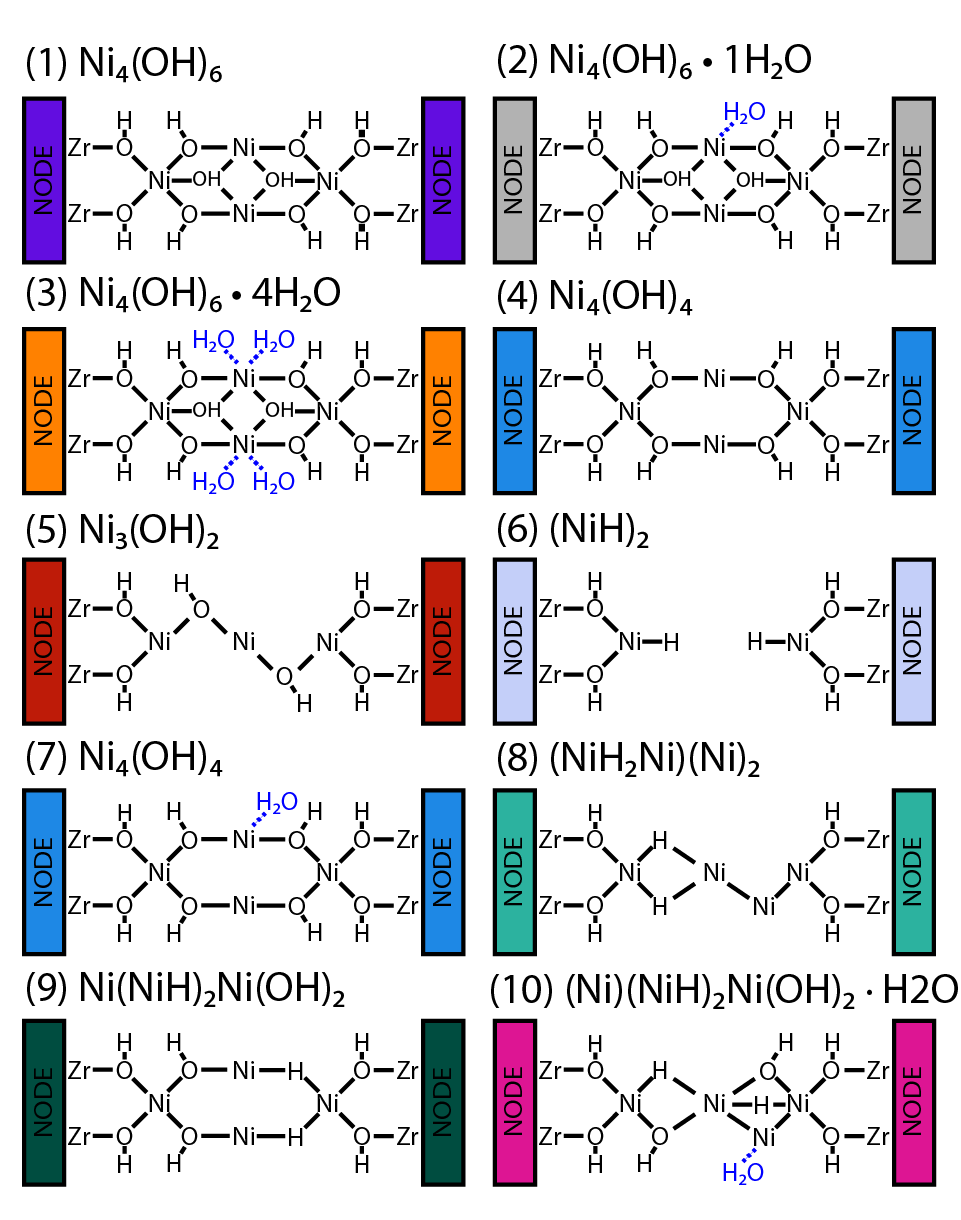
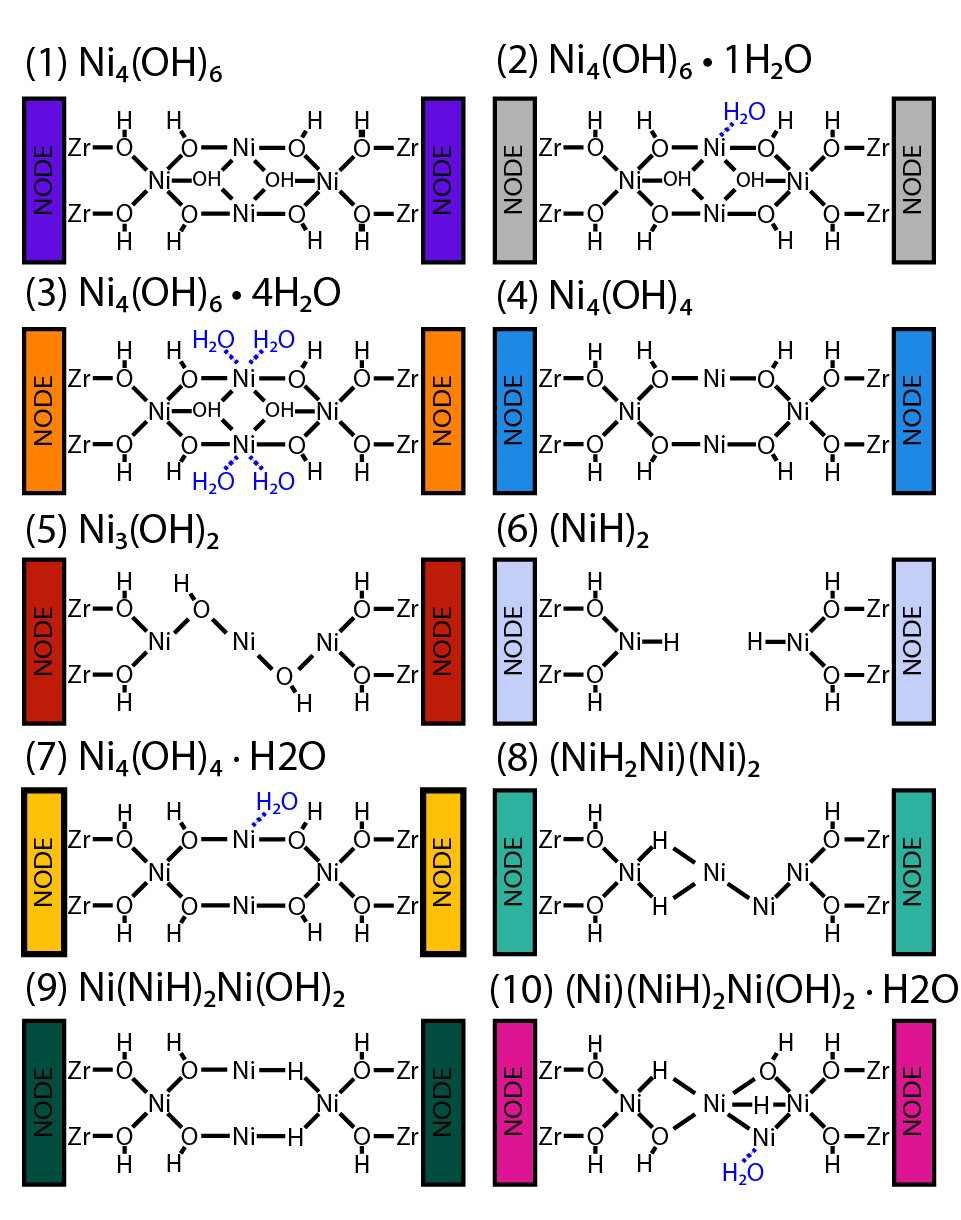
I just sent the first revision of the results section to Rachel for analysis.

Changed region(s): [[0.0, 0.623, 0.0937, 0.8098], [0.437, 0.623, 0.4995, 0.8098], [0.2497, 0.5918, 0.3434, 0.6541]]

diff --git a/outline.tex b/outline.tex
@@ -317,7 +317,7 @@ At temperatures above 130 oC, the thermodynamically dominate structure shifts wi
 % fully transforming dPDFs
 \begin{figure}[H]
     \centering
-    \includegraphics{zi-images/01-Ni-Graphics/2021-03-02-Ni-trans-dPDFs-manuscript.png}
+    \includegraphics{zi-images/01-Ni-Graphics/2021-03-03-Ni-trans-dPDFs-manuscript.png}
     \caption{Differential pair distribution functions (dPDFs) for all the activated structures, using the same color scheme from the \ce{Ni(II)} phase diagram (Figure \ref{fig:phase_diagram_Ni_combined} a)). The dPDFs show the inter-atomic distances between all the atoms of the structure. The key dPDF features seen in the experimental dPDFs \hl{(I should reference back the Platero-Prats article?)} are labeled with dashed lines, with the experimental distances reported underneath in parenthesis. The dPDFs provide a comparison between the experimentally characterized structures and the model structures found from the phase diagram.}
     \label{fig:dPDFs_TandP_trans_Ni}
 \end{figure}
@@ -331,12 +331,12 @@ When transforming with $\ce{H^{*}}$, $\ce{OH^{*}}$, and $\ce{Ni^{*}}$, we observ
 
 %Despite Figure \ref{fig:structure_diagram_TandP_trans_Ni} suggesting the complete breakdown of the cluster in a bulk-\ce{Ni} species, there is no experimental evidence. Therefore, we remove all structures with a \ce{Ni} compositional less than four and remove the \ce{Ni} transformation in the free energy expression. Figure \ref{fig:phase_diagram_TandP_fixed_Ni} shows the thermodynamic stability as a function of T and P-H2 at a fixed partial pressure of H2O and \ce{Ni} composition. 
 
-The cluster is now transformed with respect to composition of $\ce{H^{*}}$ and $\ce{OH^{*}}$ at a fixed \ce{Ni^{*}} composition (Figure \ref{fig:phase_diagram_Ni_combined} b)). (3) \ce{Ni4(OH)6.4H2O} (orange), (2) \ce{Ni4(OH)6.H2O} (gray), (1) \ce{Ni4(OH)6} (purple), and (4) \ce{Ni4(OH)4} (light blue) appear on both (Figure \ref{fig:phase_diagram_Ni_combined} a) and b); however, the structures now appear on the diagram are \ce{Ni4(OH)4.H2O}, (8) \ce{(NiH2Ni)(Ni2)} (mint), \ce{Ni(NiOH)2(NiH2)}, and (10) \ce{Ni(NiH)2Ni(OH)2.H2O} (pink). These structure occupy the phase space of (5) \ce{Ni3(OH)2} and (6) \ce{(NiH)2} (lilac) on Figure \ref{fig:phase_diagram_Ni_combined} a). A similar trend is observed in Figure \ref{fig:phase_diagram_Ni_combined} b) as Figure \ref{fig:phase_diagram_Ni_combined} a); the continued conversion of \ce{\mu_{2}-OH^{*}} sites into \ce{H2O} with increasing \ce{H2} partial pressure. Starting from (4) \ce{Ni4(OH)4} (light blue), the lowest energy structures exhibit the replacement of \ce{\mu_{2}-OH} ligands with \ce{Ni-H-Ni} structural units. (9)  \ce{Ni(NiOH)2(NiH2)} (green)shows the partial conversion of and (8) \ce{(NiH2Ni)(Ni2)} (mint) shows the full conversion of the \ce{\mu_{2}-OH} ligands that link the \ce{Ni} atoms of the cluster. Even at low temperatures, adsorbed \ce{H2O} is found in the lowest energy structures (\ce{Ni4(OH)4.H2O} and (10) \ce{Ni(NiH)2Ni(OH)2.H2O} (pink)). 
+The cluster is now transformed with respect to composition of $\ce{H^{*}}$ and $\ce{OH^{*}}$ at a fixed \ce{Ni^{*}} composition (Figure \ref{fig:phase_diagram_Ni_combined} b)). (1) \ce{Ni4(OH)6} (purple), (2) \ce{Ni4(OH)6.H2O} (gray), (3) \ce{Ni4(OH)6.4H2O} (orange), and (4) \ce{Ni4(OH)4} (light blue) appear on both (Figure \ref{fig:phase_diagram_Ni_combined} a) and b). The new models appear appearing on the diagram are \ce{Ni4(OH)4.H2O}, (8) \ce{(NiH2Ni)(Ni2)} (mint), \ce{Ni(NiOH)2(NiH2)}, and (10) \ce{Ni(NiH)2Ni(OH)2.H2O} (pink). These models occupy the phase space of (5) \ce{Ni3(OH)2} and (6) \ce{(NiH)2} (lilac) on Figure \ref{fig:phase_diagram_Ni_combined} a). A similar trend is observed in Figure \ref{fig:phase_diagram_Ni_combined} b) as Figure \ref{fig:phase_diagram_Ni_combined} a); the continued conversion of \ce{\mu_{2}-OH^{*}} sites into \ce{H2O} with increasing \ce{H2} partial pressure. Starting from (4) \ce{Ni4(OH)4} (light blue), the lowest energy structures exhibit the replacement of \ce{\mu_{2}-OH} ligands with \ce{Ni-H-Ni} structural units. (9)  \ce{Ni(NiOH)2(NiH2)} (green) shows the partial conversion of and (8) \ce{(NiH2Ni)(Ni2)} (mint) shows the full conversion of the \ce{\mu_{2}-OH} ligands that link the \ce{Ni} atoms of the cluster. Even at low temperatures, adsorbed \ce{H2O} is found in the lowest energy structures (\ce{Ni4(OH)4.H2O} and (10) \ce{Ni(NiH)2Ni(OH)2.H2O} (pink)). 
 
 % Fixed Ni dPDFs
 \begin{figure}[H]
     \centering
-    \includegraphics{zi-images/01-Ni-Graphics/2021-03-02-Ni-fixed-dPDFs-manuscript.png}
+    \includegraphics{zi-images/01-Ni-Graphics/2021-03-03-Ni-fixed-dPDFs-manuscript.png}
     \caption{Differential pair distribution functions (dPDFs) for all the activated structures, using the same color scheme from the \ce{Ni(II)} phase diagram (Figure \ref{fig:phase_diagram_Ni_combined} b)). The dPDFs show the inter-atomic distances between all the atoms of the structure. The key dPDF features seen in the experimental dPDFs \hl{(I should reference back the Platero-Prats article?)} are labeled with dashed lines, with the experimental distances reported underneath in parenthesis. The dPDFs provide a comparison between the experimentally characterized structures and the model structures found from the phase diagram.}
     \label{fig:dPDFs_TandP_fixed_Ni}
 \end{figure}
@@ -345,31 +345,30 @@ We again evaluate the performance of our model system by comparing the model dPD
 
 For a fixed \ce{Ni^{*}}, we again find the coordination between the model structure and the 1 Cycle (activated) to disagree. With increasing \ce{H2} partial pressure, the \ce{Ni} coordination decreases to create undercoordinated \ce{Ni} species.
 
-
-
-% structure diagram for the special selection structures
-
-
-% dPDF for the special-selection structures
-\begin{figure}
+\begin{figure}[H]
     \centering
     \includegraphics{zi-images/01-Ni-Graphics/2021-03-03-Ni-special-selection-dPDFs-manuscript.png}
     \caption{
-    Differential pair distribution functions (dPDFs) for select model structures that do not appear on Figure \ref{fig:phase_diagram_Ni_combined}. The structures shown above are not thermodynamic minimum. The naming convention is adopted: (11) \ce{Ni4(OH)6.4H2O} (green), (12) \ce{Ni4(OH)4(O).3H2O} (light green), and (13) \ce{Ni4(OH)6.1H2O} (blue)
+    Differential pair distribution functions (dPDFs) for select model structures that do not appear on Figure \ref{fig:phase_diagram_Ni_combined}. The structures shown above are not thermodynamic minimum. The naming convention is adopted: (11) \ce{Ni4(OH)4(O).3H2O} (green), (12) \ce{Ni4(OH)4(O).2H2O} (light green), and (13) \ce{Ni4(OH)6.H2O} (blue).
     }
     \label{fig:dPDF-Ni-special}
 \end{figure}
 
-We searched the model structure library to find structures that might better reproduce the 1 (Cycled) activated dPDF. We found the following model structures to be structurally relevant: (11) \ce{Ni4(OH)6.4H2O} (green), (12) \ce{Ni4(OH)4(O).3H2O} (light green), and (13) \ce{Ni4(OH)6.1H2O} (blue). Although not at pronounced, (11) \ce{Ni4(OH)6.4H2O} (green) demonstrates both \ce{Ni \cdots Ni} and \ce{Ni \cdots Zr} peak splitting. The upper bound for the \ce{Ni \cdots Ni} peak is shifted 3.35 A from 3.27 A. The \ce{Ni-O} peak for (11) \ce{Ni4(OH)6.4H2O} (green) matches the peak of 2.02 A of the 1 Cycle (activated). However, the ce{Ni-O} peak for (11) \ce{Ni4(OH)6.4H2O} (green) is noticeably broader. The increased width is attributed to the adsorbed \ce{H2O} distance around 2.25 A. The (12) \ce{Ni4(OH)4(O).3H2O} (light green) model contains a unique structure and composition. A \ce{\mu_{2}-OH} ligand was replaced with an \ce{\mu_{2}-O} ligand. (12) \ce{Ni4(OH)4(O).3H2O} (light green) matches the \ce{Ni-O} distance, and does contain split \ce{Ni \cdots Ni} peaks that are shifted to lower distances relative to the 1 Cycle (activated). (12) \ce{Ni4(OH)4(O).3H2O} (light green) model does not demonstrate \ce{Ni \cdots Zr} peak splitting, but does contain a single peak at the lower \ce{Ni \cdots Zr} limit. The (13) \ce{Ni4(OH)6.1H2O} (blue) model contains a sharp peak at 2.04 A related to the \ce{Ni-O} distance, \ce{Ni \cdots Zr} splitting shifted to lower distances, and a single \ce{Ni \cdots Zr } peak within the bounds of \ce{Ni \cdots Zr} peak splitting. All of the structures do not contain a \ce{Ni \cdots Ni} peak between 2.1 A and 2.4 A, which was seen on a majority of the structures in Figure \ref{fig:phase_diagram_Ni_combined} and Figure \ref{fig:Ni-structure-diagram}
+\begin{figure}[H]
+    \centering
+    \includegraphics{zi-images/01-Ni-Graphics/2021-figure-structure-Ni-transformations_manuscript-additional-structures.png}
+    \caption{
+    Schematic representations of the model structures found in Figure \ref{fig:dPDF-Ni-special}, with the following naming convention: (11) \ce{Ni4(OH)4(O).3H2O} (green), (12) \ce{Ni4(OH)4(O).2H2O} (light green), and (13) \ce{Ni4(OH)6.H2O} (blue). The structures shown here do not represent a thermodynamic minimum from the \textit{ab initio} thermodynamic analysis and therefore do not appear on the phase diagrams. 
+    }
+    \label{fig:Ni-special-structures}
+\end{figure}
 
-All three structure located on \ref{fig:dPDF-Ni-special} demonstrate features r
+We searched the model structure library to find structures that might better reproduce the 1 (Cycled) activated dPDF (Figure \ref{fig:Ni-special-structures}). We found the following model structures to be structurally relevant: (11) \ce{Ni4(OH)4(O).3H2O} (green), (12) \ce{Ni4(OH)4(O).2H2O} (light green), and (13) \ce{Ni4(OH)6.H2O} (blue). Both (11) \ce{Ni4(OH)4(O).3H2O} (green) and \ce{Ni4(OH)4(O).2H2O} (light green) are structurally unique. The proton topology of the cluster was modified by transforming a \ce{\mu_{2}-OH} ligand to an \ce{\mu_{2}-O} ligand. 
+Although not as pronounced, (11) \ce{Ni4(OH)4(O).3H2O} (green) demonstrates both \ce{Ni \cdots Ni} and \ce{Ni \cdots Zr} peak splitting. The upper bound for the \ce{Ni \cdots Ni} peak is shifted 3.35 A from 3.27 A. The \ce{Ni-O} peak for (11) \ce{Ni4(OH)4(O).3H2O} (green) matches the peak of 2.02 A of the 1 Cycle (activated). However, the \ce{Ni-O} peak for (11) \ce{Ni4(OH)4(O).3H2O} (green) is noticeably broader. The increased width is attributed to the adsorbed \ce{H2O} distance around 2.25 A. (12) \ce{Ni4(OH)4(O).2H2O} (light green) matches the \ce{Ni-O} distance, and does contain split \ce{Ni \cdots Ni} peaks that are shifted to lower distances relative to the 1 Cycle (activated). (12) \ce{Ni4(OH)4(O).2H2O} (light green) model does not demonstrate \ce{Ni \cdots Zr} peak splitting, but does contain a single peak at the lower \ce{Ni \cdots Zr} limit. The (13) \ce{Ni4(OH)6.H2O} (blue) model contains a sharp peak at 2.04 A related to the \ce{Ni-O} distance, \ce{Ni \cdots Zr} splitting shifted to lower distances, and a single \ce{Ni \cdots Zr } peak within the bounds of \ce{Ni \cdots Zr} peak splitting. All of the structures do not contain a \ce{Ni \cdots Ni} peak between 2.1 A and 2.4 A, which was seen on a majority of the structures in Figure \ref{fig:phase_diagram_Ni_combined} and Figure \ref{fig:Ni-structure-diagram}. 
 
-
+All three structure located on Figure \ref{fig:dPDF-Ni-special} demonstrate matching features to the 1 Cycle (activated), but do not appear on Figure \ref{fig:phase_diagram_Ni_combined} because of their electronic energies. For the same atomic composition, there are structures that are electronically lower in energy. Despite (11) \ce{Ni4(OH)4(O).3H2O} (green) showing better agreement with the 1 Cycle (activated) structure, the structure does not appear on the phase diagram. 
 
 \hl{I think a good figure would be to pick a specific set of conditions and compare the relative free energies of all the different structures. I can show the relative gibbs free energies of all the structures listed above at a specific set of conditions.. maybe like the line plot I created at the very beginning of this project.. I could pick a set temperature (200 oC) and then create a line plot with x axis being the log(PH2) and y axis being the gibbs free energy.... basically a phase diagram at a fixed temperature and PH2O).}
-
-
-
 
 %    (1)  \ce{Ni4(OH)6},                  % purple
 %    (2)  \ce{Ni4(OH)6.H2O},        % gray
